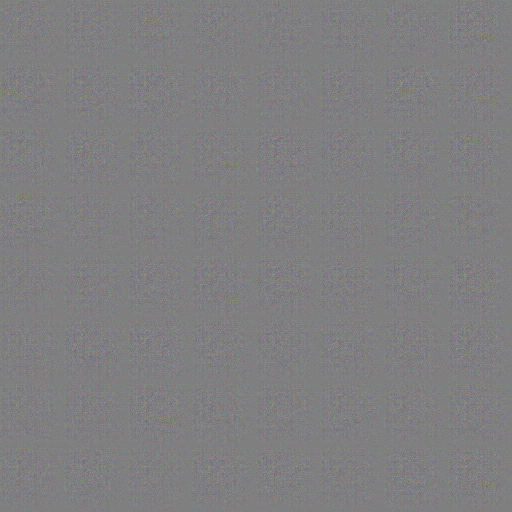
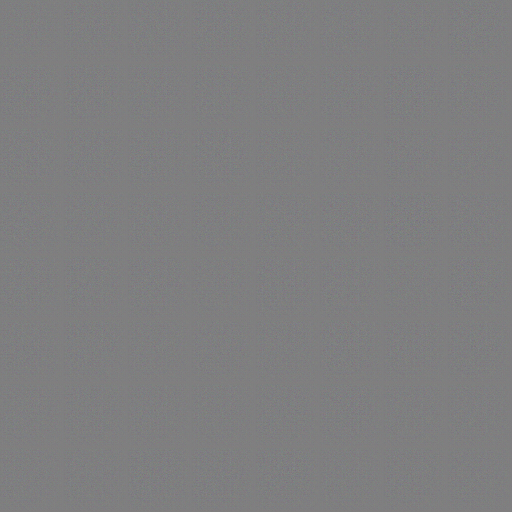
Update .gitignore to include training artifacts and modify imread function to return float32 numpy array. Add new sample images.

diff --git a/utils.py b/utils.py
@@ -23,7 +23,7 @@ from PIL import Image
 
 def imread(path: str | Path, grayscale: bool = False) -> np.ndarray:
     """
-    Read an image from disk as a float64 numpy array (range [0, 255]).
+    Read an image from disk as a float32 numpy array (range [0, 255]).
     Drop-in replacement for scipy.misc.imread.
     """
     img = Image.open(path)
